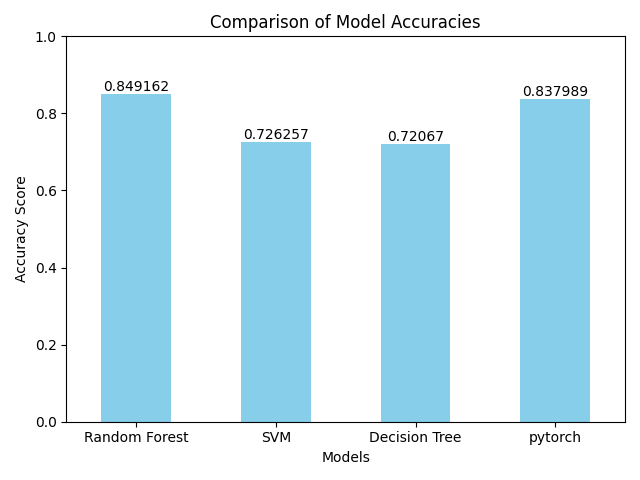
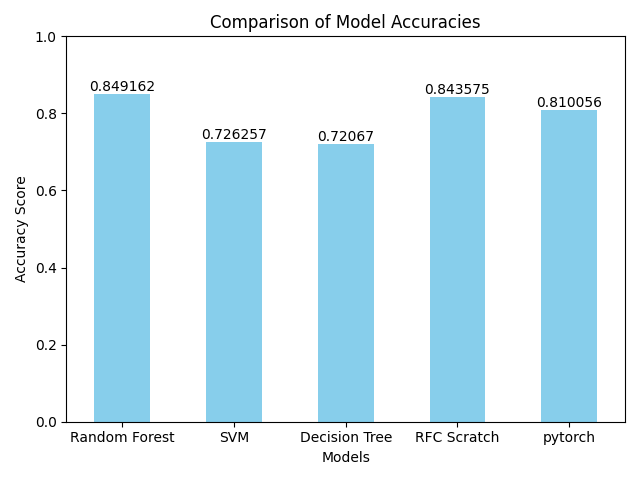
Functional hand-rolled RandomForestClassifier is finished.

Changed region(s): [[0.3125, 0.1562, 0.7812, 0.9375], [0.0938, 0.1562, 0.2812, 0.9375], [0.8125, 0.1562, 0.9375, 0.9375]]

diff --git a/src/rfc_hand_rolled/random_forest.py b/src/rfc_hand_rolled/random_forest.py
@@ -1,0 +1,109 @@
+import random
+from collections import Counter
+
+from sklearn.metrics import accuracy_score
+
+from src.decision_tree.decision_tree import Internal_Node, Leaf, information_gain, split
+
+
+class RandomForestClassifier:
+    def __init__(self, n_trees=10, n_features=None):
+        self.n_trees = n_trees
+        self.n_features = n_features
+        self.trees = []
+
+    def fit(self, dataset, labels):
+        self.trees = []
+        for _ in range(self.n_trees):
+            # Generate a bootstrap sample
+            boot_dataset, boot_labels = bootstrap_sample(dataset, labels)
+            # Determine the number of features to consider if not specified
+            if self.n_features is None:
+                self.n_features = int(len(dataset[0]) ** 0.5)
+            # Build a decision tree on the bootstrap sample
+            tree = build_tree_random_features(
+                boot_dataset, boot_labels, self.n_features
+            )
+            self.trees.append(tree)
+
+    def predict(self, dataset):
+        predictions = []
+        for data_point in dataset:
+            # Collect predictions from all trees
+            votes = [tree.predict(data_point) for tree in self.trees]
+            # Majority vote
+            predictions.append(Counter(votes).most_common(1)[0][0])
+        return predictions
+
+
+def bootstrap_sample(dataset, labels):
+    n_samples = len(dataset)
+    # Generate random indices with replacement
+    indices = [random.randint(0, n_samples - 1) for _ in range(n_samples)]
+    # Create the bootstrap sample
+    bootstrap_dataset = [dataset[i] for i in indices]
+    bootstrap_labels = [labels[i] for i in indices]
+
+    return bootstrap_dataset, bootstrap_labels
+
+
+def find_best_split_random_features(dataset, labels, n_features):
+    best_feature, best_gain = -1, 0
+    dataset_features = list(range(len(dataset[0])))
+    # Randomly select n_features to consider for splitting
+    features_to_consider = random.sample(dataset_features, n_features)
+
+    for feature in features_to_consider:
+        data_subsets, label_subsets = split(dataset, labels, feature)
+        gain = information_gain(labels, label_subsets)
+        if gain > best_gain:
+            best_feature, best_gain = feature, gain
+
+    return best_feature, best_gain
+
+
+# Update the build_tree function to use find_best_split_random_features
+def build_tree_random_features(data, labels, n_features, value=""):
+    # Find the best feature to split on for the current dataset, considering a random subset of features
+    best_feature, best_gain = find_best_split_random_features(data, labels, n_features)
+    if best_gain == 0:
+        return Leaf(Counter(labels), value)
+
+    data_subsets, label_subsets = split(data, labels, best_feature)
+    branches = []
+    for i in range(len(data_subsets)):
+        branch = build_tree_random_features(
+            data_subsets[i],
+            label_subsets[i],
+            n_features,
+            data_subsets[i][0][best_feature],
+        )
+        branches.append(branch)
+
+    return Internal_Node(best_feature, branches, value)
+
+
+def rfc_handroll_main(X_train, y_train, X_val, y_val):
+    # Convert DataFrame to list of lists for the decision tree compatibility
+    X_train_list = X_train.values.tolist()
+    X_val_list = X_val.values.tolist()
+    y_train_list = y_train.tolist()
+    y_val_list = y_val.tolist()
+
+    # Instantiate the RandomForestClassifier
+    rfc = RandomForestClassifier(
+        n_trees=10, n_features=4
+    )  # Example: 10 trees, each considering 4 features
+
+    # Fit the RandomForestClassifier on the training data
+    rfc.fit(X_train_list, y_train_list)
+
+    # Use the trained RandomForest to make predictions on the validation set
+    predictions = rfc.predict(X_val_list)
+
+    # evaluate and print the accuracy
+    print(
+        f"Model: RandomForestClassifier Hand-Rolled, Accuracy: {accuracy_score(y_val_list, predictions):.2f}"
+    )
+
+    return rfc, predictions

diff --git a/main.py b/main.py
@@ -10,6 +10,7 @@ from src.naive_bayes.bayes_main import naive_bayes_main
 from src.preprocess import preprocess_data
 from src.pytorch.pytorch_binary import pytorch_main
 from src.random_forest.rf_main import random_forest_main
+from src.rfc_hand_rolled.random_forest import rfc_handroll_main
 from src.svm.svm_train import svm_main
 from src.visualize import (
     plot_confusion_matrix,
@@ -50,6 +51,7 @@ def parse_args():
             "random_forest",
             "svm",
             "decision_tree",
+            "rfc_hand",
             "naive_bayes",
             "pytorch",
             "all",
@@ -96,6 +98,12 @@ def main():
         # Call the Decision Tree training and evaluation function
         model, predictions = decision_tree_main(X_train, y_train, X_val, y_val)
         test_predictions = [model.predict(test_data) for test_data in X_test_list]
+    elif args.model == "rfc_hand":
+        # Convert X_test to list of lists for decision tree compatibility
+        X_test_list = X_test.values.tolist()
+        # Call the Decision Tree training and evaluation function
+        model, predictions = rfc_handroll_main(X_train, y_train, X_val, y_val)
+        test_predictions = model.predict(X_test_list)
     elif args.model == "svm":
         # Call the SVM training and evaluation function
         model, predictions = svm_main(X_train, y_train, X_val, y_val)
@@ -129,6 +137,7 @@ def main():
             "Random Forest": random_forest_main,
             "SVM": svm_main,
             "Decision Tree": decision_tree_main,
+            "RFC Scratch": rfc_handroll_main,
             "pytorch": lambda X_train, y_train, X_val, y_val: pytorch_main(
                 X_train, y_train, X_val, y_val, return_scaler=False
             ),

diff --git a/src/pytorch/pytorch_binary.py b/src/pytorch/pytorch_binary.py
@@ -59,9 +59,7 @@ def train_model(
                 val_loss += loss.item()
 
         val_loss /= len(val_loader)  # Average validation loss
-        print(
-            f"Epoch {epoch+1}, Loss: {running_loss / len(train_loader):.2f}, Validation Loss: {val_loss:.2f}"
-        )
+        # print( f"Epoch {epoch+1}, Loss: {running_loss / len(train_loader):.2f}, Validation Loss: {val_loss:.2f}")
 
         # Check for validation loss improvement
         if val_loss < best_val_loss:
@@ -75,7 +73,7 @@ def train_model(
 
         # Early stopping condition
         if patience_counter >= patience:
-            print("Early stopping triggered.")
+            # print("Early stopping triggered.")
             break
 
 

diff --git a/src/decision_tree/decision_tree_train.py b/src/decision_tree/decision_tree_train.py
@@ -43,7 +43,7 @@ def debug_accuracy_score(y_val_list, predictions):
     # Attempt to calculate accuracy
     try:
         accuracy = accuracy_score(y_val_list, predictions)
-        print("Accuracy:", accuracy)
+        print(f"Accuracy: {accuracy:.2f}")
     except ValueError as e:
         print("Error calculating accuracy:", e)
 
